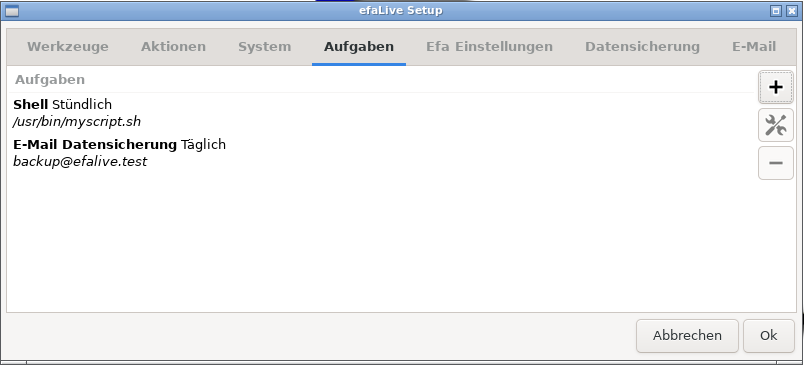
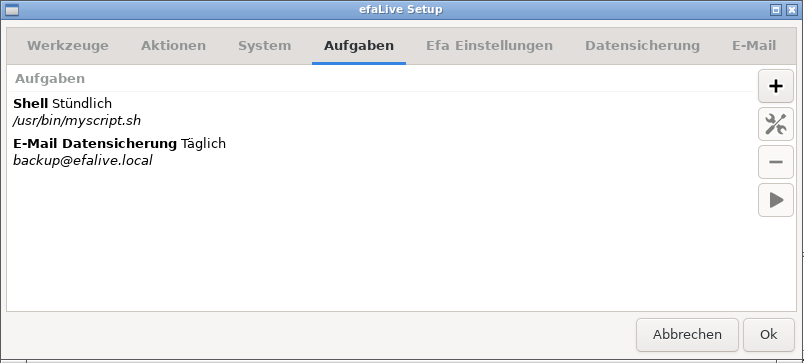
feat: update documentation

diff --git a/doc/de/efaLive_de.tex b/doc/de/efaLive_de.tex
@@ -2,7 +2,7 @@
 \newcommand{\Author}{Kay Hannay <klinux@hannay.de>} 
 \newcommand{\Title}{efaLive}
 \newcommand{\Keywords}{efaLive efa rowing canoeing}
-\newcommand{\DocDate}{20.10.2019}
+\newcommand{\DocDate}{27.03.2021}
 %--------------------------
 
 \documentclass[a4paper,12pt,twoside]{article}
@@ -51,8 +51,8 @@
     \normalsize
     \vspace*{4cm}
     \textbf{Datum:} {\DocDate} \\
-    \textbf{Version:} 1.9 \\
-    \textbf{efaLive:} 2.6 \\
+    \textbf{Version:} 1.11 \\
+    \textbf{efaLive:} 2.8.0 \\
     \textbf{Kay Hannay} <klinux@hannay.de> \\
 \end{titlepage}
 
@@ -1098,7 +1098,9 @@ Hintergrund nach einem festgelegten Intervall (stündlich, täglich,
 wöchentlich, monatlich) automatisch ausführen. Über den
 Knopf "`+'" kann eine Aufgabe hinzugefügt werden. Über "`-'" wird die aktuell 
 ausgewählte Aufgabe gelöscht und mit dem Werkzeugknopf können die Einstellugen
-zu der aktuell ausgewählten Aufgabe verändert werden.
+zu der aktuell ausgewählten Aufgabe verändert werden. Über den "`Play'"-Knopf
+kann die aktuell ausgewählte Aufgabe testweise ausgeführt werden. Etwaige Ausgaben
+erscheinen in der Logdatei.
 
 \bigskip
 \begin{minipage}{\linewidth}
@@ -1559,16 +1561,6 @@ sollte auch ohne Buch auskommen können.
 \label{sct:literatur}
 \bibliographystyle{abbrv}
 \bibliography{efaLive_de}
-
-
-\subsection{Informationen über das System}
-\label{sct:sysinfo}
-
-\begin{itemize}
-    \item Debian GNU/Linux "`Buster"' Version 10.1 (PC)
-    \item Raspbian GNU/Linux "`Buster'" Version 10.1 (RaspberryPi)
-    \item efa Version 2.2.2\_42
-\end{itemize}
 
 \end{document}
 

diff --git a/doc/en/efaLive_en.tex b/doc/en/efaLive_en.tex
@@ -2,7 +2,7 @@
 \newcommand{\Author}{Kay Hannay <klinux@hannay.de>} 
 \newcommand{\Title}{efaLive}
 \newcommand{\Keywords}{efaLive efa rowing canoeing}
-\newcommand{\DocDate}{20.10.2019}
+\newcommand{\DocDate}{27.03.2021}
 %--------------------------
 
 \documentclass[a4paper,12pt,twoside]{article}
@@ -51,8 +51,8 @@
     \normalsize
     \vspace*{4cm}
     \textbf{Date:} {\DocDate} \\
-    \textbf{Version:} 1.10 \\
-    \textbf{efaLive:} 2.7 \\
+    \textbf{Version:} 1.11 \\
+    \textbf{efaLive:} 2.8 \\
     \textbf{Kay Hannay} <klinux@hannay.de> \\
 \end{titlepage}
 
@@ -1000,7 +1000,8 @@ The efaLive daemon (\ref{sct:efalivedaemon}) automatically can process
 different tasks in the background with a given interval (hourly, daily, 
 weekly, monthly). by a click on the "+" button, a task can be added. The "-" 
 button removes the selected task and the tools button opens the settings 
-for the selected task.
+for the selected task. You can use the "Play" button to run the selected task 
+for test. Any output is printed to the log file.
 
 There are two types of tasks currently: backup and shell.
 
@@ -1401,15 +1402,5 @@ and run efaLive in your boat house, you should be fine without a book.
 \label{sct:literature}
 \bibliographystyle{abbrv}
 \bibliography{efaLive_en}
-
-
-\subsection{System information}
-\label{sct:sysinfo}
-
-\begin{itemize}
-    \item Debian GNU/Linux "Buster" Version 10.1 (PC)
-    \item Raspbian GNU/Linux "Buster" Version 10.1 (RaspberryPi)
-    \item efa Version 2.2.2\_42
-\end{itemize}
 
 \end{document}
